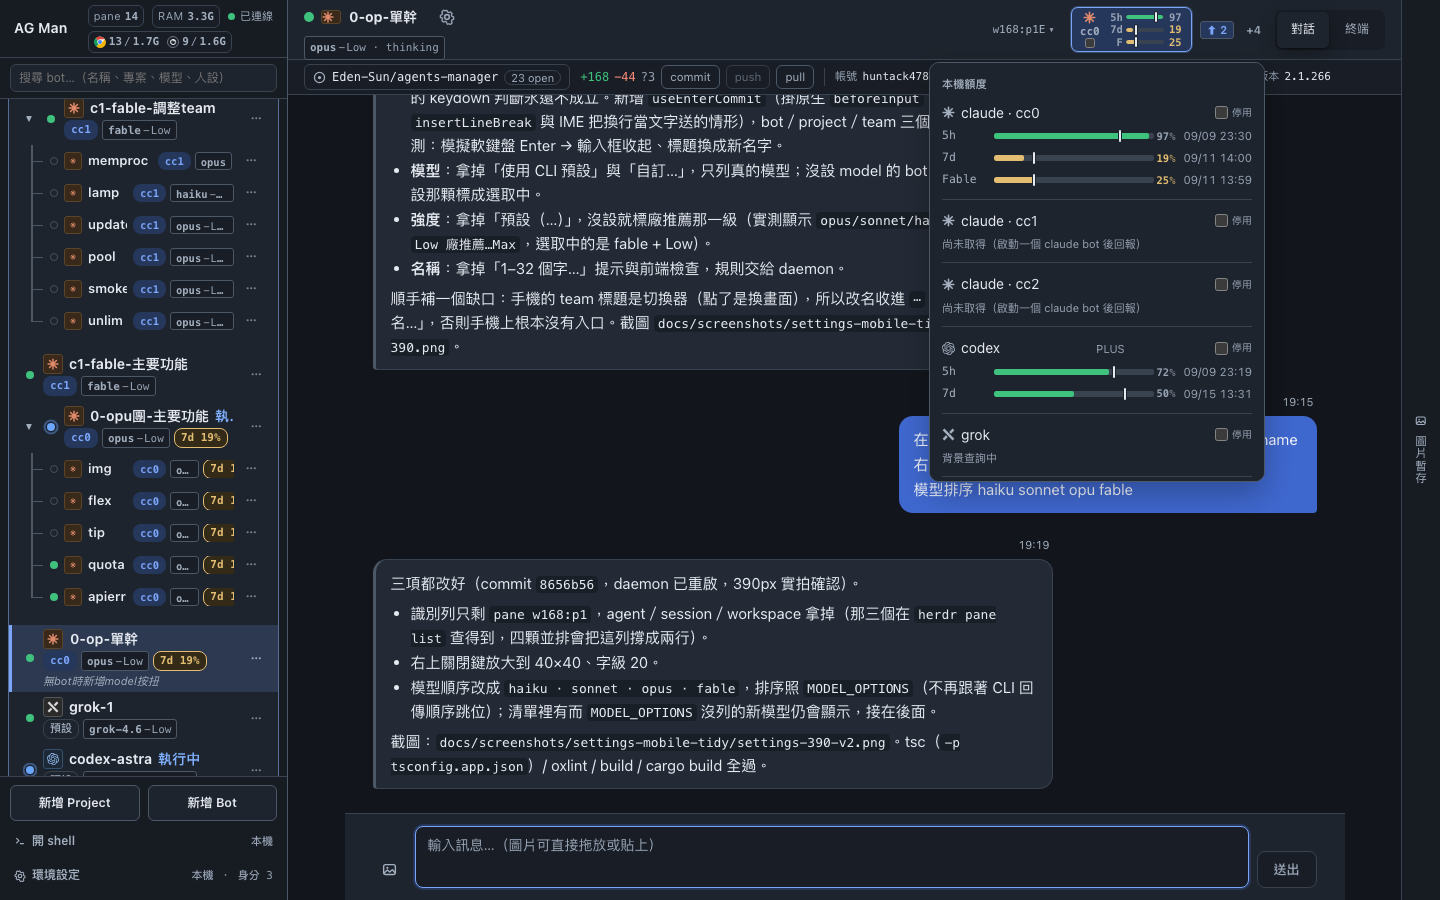
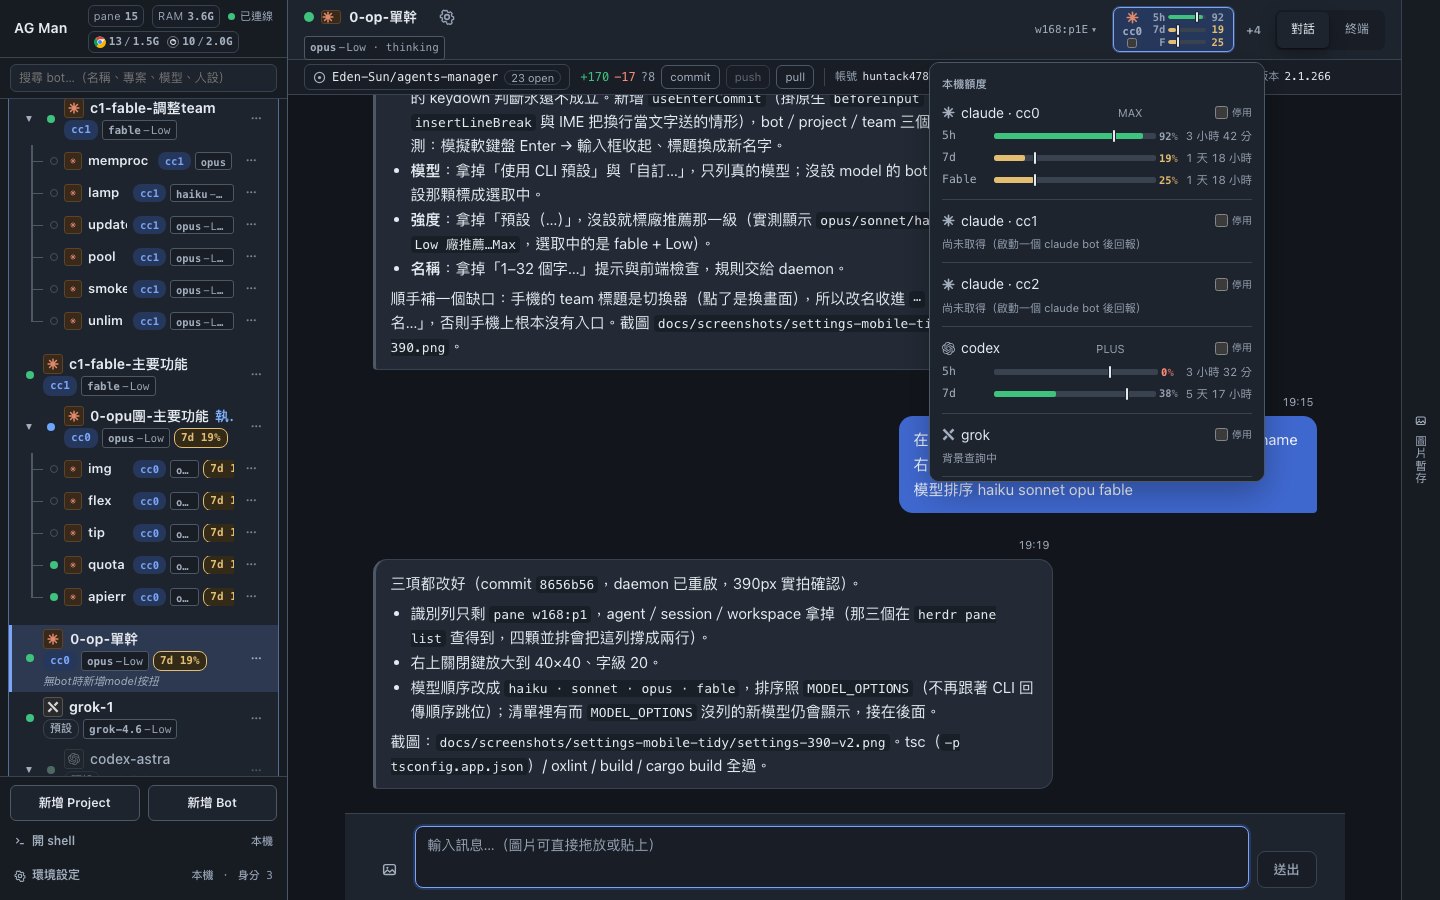
fix(web): 額度那一列寫「還有多久重置」，不是重置的日期時間
讀的人問的是「還能撐多久」，`09/11 14:00` 要自己跟現在相減才得到答案；而旁邊
黑針畫的本來就是這段剩餘時間，文字跟圖說同一件事才對得起來。改成
`1 天 18 小時` / `3 小時 42 分` / `12 分`，絕對時刻移到 tooltip。

Claude-Session: https://claude.ai/code/session_01X4TuJDthEyYPWqA3oAXWem

diff --git a/web/src/components/QuotaStrip.tsx b/web/src/components/QuotaStrip.tsx
@@ -318,6 +318,22 @@ function fmtLeft(ms: number): string {
   return `${m}m`
 }
 
+/**
+ * 彈出層那一列用的「還剩多久」：`2 天 3 小時` / `4 小時 20 分` / `12 分`。
+ *
+ * 跟 [`fmtLeft`] 是同一個數字，只是那個是給 tooltip 與窄處用的緊縮寫法（`2d3h`）。這裡有位置，
+ * 就寫成讀得出口的樣子——這一列的主角是「還能撐多久」。
+ */
+function fmtLeftLong(ms: number): string {
+  if (ms <= 0) return '即將重置'
+  const m = Math.floor(ms / 60_000)
+  const h = Math.floor(m / 60)
+  const d = Math.floor(h / 24)
+  if (d > 0) return `${d} 天 ${h % 24} 小時`
+  if (h > 0) return `${h} 小時 ${m % 60} 分`
+  return `${m} 分`
+}
+
 /** 每分鐘動一次就夠：刻度是分鐘級的。 */
 function useMinuteNow(): number {
   const [now, setNow] = useState(() => Date.now())
@@ -632,11 +648,14 @@ function PopWindow({
         mark={resetMark(w?.resets_at, WINDOW_MS[win], now)}
         markTitle={left === null ? undefined : `${name} 還有 ${fmtLeft(left)} 重置`}
       />
-      <span className="quota-reset">
+      {/* 「還有多久」而不是「幾號幾點」（2026-09-09 使用者要求）：讀的人問的是「還能撐多久」，
+          日期要自己跟現在相減才知道答案，而黑針畫的本來就是這段剩餘時間。絕對時刻留在
+          tooltip，跨日或要跟別人約時間時才需要。 */}
+      <span className="quota-reset" title={w?.resets_at ? `重置時刻 ${fmtTime(w.resets_at)}` : undefined}>
         <span className="quota-ico" aria-hidden="true">
           ↻
         </span>
-        {fmtTime(w?.resets_at)}
+        {left === null ? '—' : fmtLeftLong(left)}
       </span>
     </div>
   )
@@ -901,7 +920,7 @@ export function QuotaStrip({
             </button>
           ) : null}
           {/* 一行就夠：每個帳號各印一次「更新於」時，那幾個時間差不到一分鐘。 */}
-          {freshest ? <p className="quota-pop-foot">更新於 {fmtTime(freshest)} · 時間為重置時刻</p> : null}
+          {freshest ? <p className="quota-pop-foot">更新於 {fmtTime(freshest)} · ↻ 是距離重置還有多久</p> : null}
         </div>
       ) : null}
     </div>

diff --git a/docs/UI-DECISIONS.md b/docs/UI-DECISIONS.md
@@ -761,3 +761,6 @@ to update`，套用的方式是重啟。原本每顆都要點一次 header 的 `
 - **順帶統一了桌面**：同一個元件，桌面的彈出層本來也只有數字。剩餘量用長度、reset 用黑針的位置，
   跟條上讀到的是同一套語言，不用在兩個地方學兩種讀法。
 - 手機把條子加高到 10px、黑針加粗到 3px；`%` 只在彈出層補回來（條上那格擠，省掉）。
+- **`↻` 後面寫「還有多久」不是「幾號幾點」**（同日，使用者要求）：讀的人問的是「還能撐多久」，
+  絕對時刻要自己跟現在相減才得到答案，而黑針畫的本來就是這段剩餘時間——文字跟圖說同一件事才對得起來。
+  格式 `1 天 18 小時` / `3 小時 42 分` / `12 分`；絕對時刻留在 tooltip（跨日、要跟人約時間時才需要）。
